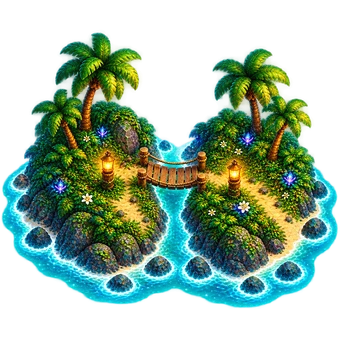
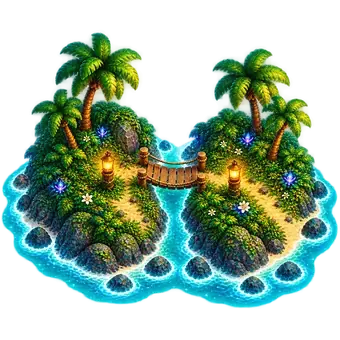
Fraction Bay's islands re-encoded for the first load (quality 75); the maths map's budget tightened
The eight misl files (#99, 340 px) re-encoded from the designer's originals at quality 75: 439 -> 289 KB; each ledger
row keeps the original's sha256 as its source in the description, with the new sha256 in its column; CREDITS.md
regenerated. The maths map with the flag on: 706 KB, usable in 15.9 s on the slow profile (two runs), against 689 KB /
15.7 s with the English islands and 778 KB / 17.3 s before the re-encode. tests/weight.py: BUDGET_MATH 725 KB.

Claude-Session: https://claude.ai/code/session_01KD6JaxMcjhxzuyMn6yHGvn

diff --git a/tests/weight.py b/tests/weight.py
@@ -40,9 +40,10 @@ PATH_CAP = {'requests': 4, 'bytes': 160 * KB}   # 160, not 110: bg/english kept 
 # 2% of room on purpose (1,950 KB), so an ordinary fix in a shared file does not fail it; it is raised on purpose, with a
 # note here, by each live change that adds weight. Requests: not one more.
 CEIL_OFF = {'requests': 88, 'bytes': 1950 * KB}
-# with the flag on: Fraction Bay's map, first load. With its own islands (#99, misl-1..4): 48 requests, 778 KB on
-# 26.11.2026 (689 KB with the English islands in their place). The cap holds that with a little room.
-BUDGET_MATH = {'requests': 50, 'bytes': 800 * KB}
+# with the flag on: Fraction Bay's map, first load. With its own islands (#99, misl-1..4, re-encoded at quality 75):
+# 48 requests, 706 KB, usable in 15.9 s on the slow profile (26.11.2026); with the English islands in their place it was
+# 689 KB and 15.7 s, unencoded 778 KB and 17.3 s. The cap holds that with a little room.
+BUDGET_MATH = {'requests': 50, 'bytes': 725 * KB}
 
 ROOT = P.ROOT
 

diff --git a/assets/CREDITS.md b/assets/CREDITS.md
@@ -593,14 +593,14 @@ secret pictures come four to a job (each drawn as a sheet of four, then cut).
 | `assets/al/map/isl-5.hf_20261125_075121_4417a597-d43d-4c75-afbc-86525a35ac92.webp` | English map island 5 (presents) | 2026-11-25 | 4417a597-d43d-4c75-afbc-86525a35ac92 | gpt_image_2_5 |
 | `assets/al/map/isl-6-locked.hf_20261125_075119_742bbc3a-52ff-4652-a1c9-b43679ba2e26.webp` | English map island 6 (treasure), locked: made here from the same picture (greyed, darker, cool mist), no extra job | 2026-11-25 | 742bbc3a-52ff-4652-a1c9-b43679ba2e26 | gpt_image_2_5 |
 | `assets/al/map/isl-6.hf_20261125_075119_742bbc3a-52ff-4652-a1c9-b43679ba2e26.webp` | English map island 6 (treasure) | 2026-11-25 | 742bbc3a-52ff-4652-a1c9-b43679ba2e26 | gpt_image_2_5 |
-| `assets/al/map/misl-1-locked.hf_20261126_053609_73c3e0c1-8f01-44b5-868a-0b2de78e4a11.webp` | Fraction Bay island 1 (אי השלמים): a round pie-shaped island with a wedge cove, locked: made here from the same picture (greyed, darker, cool mist), no extra job | 2026-11-26 | 73c3e0c1-8f01-44b5-868a-0b2de78e4a11 | gpt_image_2_5 medium, transparent |
-| `assets/al/map/misl-1.hf_20261126_053609_73c3e0c1-8f01-44b5-868a-0b2de78e4a11.webp` | Fraction Bay island 1 (אי השלמים): a round pie-shaped island with a wedge cove; cut from its sheet, stray mist removed, 340 px | 2026-11-26 | 73c3e0c1-8f01-44b5-868a-0b2de78e4a11 | gpt_image_2_5 medium, transparent |
-| `assets/al/map/misl-2-locked.hf_20261126_053609_753eed7f-f912-4a7c-88ad-cd56b0d488ff.webp` | Fraction Bay island 2 (אי החיבור): two half-islands joined by a bridge, locked: made here from the same picture (greyed, darker, cool mist), no extra job | 2026-11-26 | 753eed7f-f912-4a7c-88ad-cd56b0d488ff | gpt_image_2_5 medium, transparent |
-| `assets/al/map/misl-2.hf_20261126_053609_753eed7f-f912-4a7c-88ad-cd56b0d488ff.webp` | Fraction Bay island 2 (אי החיבור): two half-islands joined by a bridge; cut from its sheet, stray mist removed, 340 px | 2026-11-26 | 753eed7f-f912-4a7c-88ad-cd56b0d488ff | gpt_image_2_5 medium, transparent |
-| `assets/al/map/misl-3-locked.hf_20261126_053609_bb891646-baac-418a-9c34-15cd57c80002.webp` | Fraction Bay island 3 (אי החיסור): a round island with a wedge-shaped lagoon cut out and a loose rock, locked: made here from the same picture (greyed, darker, cool mist), no extra job | 2026-11-26 | bb891646-baac-418a-9c34-15cd57c80002 | gpt_image_2_5 medium, transparent |
-| `assets/al/map/misl-3.hf_20261126_053609_bb891646-baac-418a-9c34-15cd57c80002.webp` | Fraction Bay island 3 (אי החיסור): a round island with a wedge-shaped lagoon cut out and a loose rock; cut from its sheet, stray mist removed, 340 px | 2026-11-26 | bb891646-baac-418a-9c34-15cd57c80002 | gpt_image_2_5 medium, transparent |
-| `assets/al/map/misl-4-locked.hf_20261126_053610_a7c16bec-9dc9-49f6-a96b-9f4992146e6f.webp` | Fraction Bay island 4 (אי המבחן): a tall terraced island with a lantern on top, locked: made here from the same picture (greyed, darker, cool mist), no extra job | 2026-11-26 | a7c16bec-9dc9-49f6-a96b-9f4992146e6f | gpt_image_2_5 medium, transparent |
-| `assets/al/map/misl-4.hf_20261126_053610_a7c16bec-9dc9-49f6-a96b-9f4992146e6f.webp` | Fraction Bay island 4 (אי המבחן): a tall terraced island with a lantern on top; cut from its sheet, stray mist removed, 340 px | 2026-11-26 | a7c16bec-9dc9-49f6-a96b-9f4992146e6f | gpt_image_2_5 medium, transparent |
+| `assets/al/map/misl-1-locked.hf_20261126_053609_73c3e0c1-8f01-44b5-868a-0b2de78e4a11.webp` | Fraction Bay island 1 (אי השלמים): a round pie-shaped island with a wedge cove, locked: made here from the same picture (greyed, darker, cool mist), no extra job; re-encoded at quality 75 for the first load (the designer's original, sha256 c48faf7360ffa6bd208d9534957a49d04f635b46571b4b27a23148cb62982c88, is the source) | 2026-11-26 | 73c3e0c1-8f01-44b5-868a-0b2de78e4a11 | gpt_image_2_5 medium, transparent |
+| `assets/al/map/misl-1.hf_20261126_053609_73c3e0c1-8f01-44b5-868a-0b2de78e4a11.webp` | Fraction Bay island 1 (אי השלמים): a round pie-shaped island with a wedge cove; cut from its sheet, stray mist removed, 340 px; re-encoded at quality 75 for the first load (the designer's original, sha256 eea4369c114615916812b046892e251c3d49afaa572cbed2409a4d7916a18a18, is the source) | 2026-11-26 | 73c3e0c1-8f01-44b5-868a-0b2de78e4a11 | gpt_image_2_5 medium, transparent |
+| `assets/al/map/misl-2-locked.hf_20261126_053609_753eed7f-f912-4a7c-88ad-cd56b0d488ff.webp` | Fraction Bay island 2 (אי החיבור): two half-islands joined by a bridge, locked: made here from the same picture (greyed, darker, cool mist), no extra job; re-encoded at quality 75 for the first load (the designer's original, sha256 e3b6be5183b383a73720f6e76dab95f517d3bcd87cab1b64676f92f4d88edb72, is the source) | 2026-11-26 | 753eed7f-f912-4a7c-88ad-cd56b0d488ff | gpt_image_2_5 medium, transparent |
+| `assets/al/map/misl-2.hf_20261126_053609_753eed7f-f912-4a7c-88ad-cd56b0d488ff.webp` | Fraction Bay island 2 (אי החיבור): two half-islands joined by a bridge; cut from its sheet, stray mist removed, 340 px; re-encoded at quality 75 for the first load (the designer's original, sha256 c1cb13f080906b869a13cf881471f248ad6397e94016253d50bd6f81cb391e96, is the source) | 2026-11-26 | 753eed7f-f912-4a7c-88ad-cd56b0d488ff | gpt_image_2_5 medium, transparent |
+| `assets/al/map/misl-3-locked.hf_20261126_053609_bb891646-baac-418a-9c34-15cd57c80002.webp` | Fraction Bay island 3 (אי החיסור): a round island with a wedge-shaped lagoon cut out and a loose rock, locked: made here from the same picture (greyed, darker, cool mist), no extra job; re-encoded at quality 75 for the first load (the designer's original, sha256 c3655add400766fbf3d07a727623508d3ef4c285648eb3f47c5695a4142f4273, is the source) | 2026-11-26 | bb891646-baac-418a-9c34-15cd57c80002 | gpt_image_2_5 medium, transparent |
+| `assets/al/map/misl-3.hf_20261126_053609_bb891646-baac-418a-9c34-15cd57c80002.webp` | Fraction Bay island 3 (אי החיסור): a round island with a wedge-shaped lagoon cut out and a loose rock; cut from its sheet, stray mist removed, 340 px; re-encoded at quality 75 for the first load (the designer's original, sha256 cfc131e75b1a65326484a3230964257bffca5789e8c332f62f5e32f796b5226b, is the source) | 2026-11-26 | bb891646-baac-418a-9c34-15cd57c80002 | gpt_image_2_5 medium, transparent |
+| `assets/al/map/misl-4-locked.hf_20261126_053610_a7c16bec-9dc9-49f6-a96b-9f4992146e6f.webp` | Fraction Bay island 4 (אי המבחן): a tall terraced island with a lantern on top, locked: made here from the same picture (greyed, darker, cool mist), no extra job; re-encoded at quality 75 for the first load (the designer's original, sha256 fb41a49f2901b019e156ae4285f4fabd326d5ffc9b3298a6c1492a5b9e7fddf9, is the source) | 2026-11-26 | a7c16bec-9dc9-49f6-a96b-9f4992146e6f | gpt_image_2_5 medium, transparent |
+| `assets/al/map/misl-4.hf_20261126_053610_a7c16bec-9dc9-49f6-a96b-9f4992146e6f.webp` | Fraction Bay island 4 (אי המבחן): a tall terraced island with a lantern on top; cut from its sheet, stray mist removed, 340 px; re-encoded at quality 75 for the first load (the designer's original, sha256 d83f8713eed78b74e77c6dc014179101dba3a6ad70f2c4cf5d1564e1ef258ff4, is the source) | 2026-11-26 | a7c16bec-9dc9-49f6-a96b-9f4992146e6f | gpt_image_2_5 medium, transparent |
 
 ### Backgrounds
 
